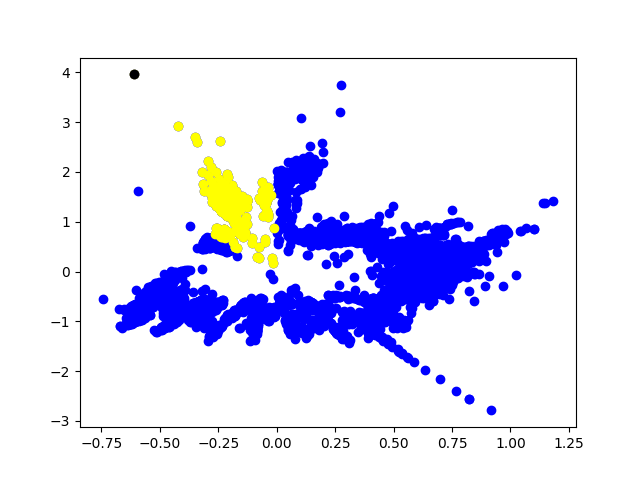
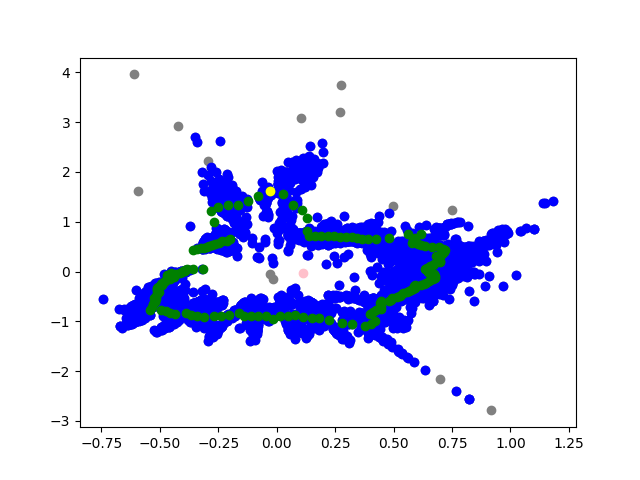
update algorithm + new maps demonstrating our idea

diff --git a/algorithm.py b/algorithm.py
@@ -4,63 +4,33 @@ import csv
 import numpy as np
 from scipy.spatial import distance
 import cmath
+import sklearn.neighbors as kdt
+import time
+
 # settings:
-angel = math.pi / 9  # the amount of degrees in each section default prob 20
-folder = "data"
+angel = 10 * (math.pi / 180)  # the amount of degrees in each section default prob 20
+folder = "data"  # temporary variables for our convenient
 suffix = "PointData"
 points_file = "{}/{}".format(folder, suffix)
 height_removal = -2.0  # only looks at points from this height and more, put this to -100.0 if u dont want limit
+radius = 0.2  # variables used to clean isolated points
+density = 2
 
-'''
-"test list:
-"pointData0",
-"pointData8",
-"pointDataDekel",
-"pointDataVered" 
-"pointData0 (1)"
-'''
 
-def points_in_section(points, degree1, degree2):
-    # returns the points in the section from degree1 to degree2
+def clean_noise(points, rad, den):
     new_points = []
-    e1 = [1.0, 0.0]
+    tree = kdt.KDTree(points, leaf_size=2)
 
-    v1_cross = rotate(e1, degree1 + 90)
-    v2_cross = rotate(e1, degree2 + 90)
+    # read more about this data structure: https://en.wikipedia.org/wiki/K-d_tree
 
-    for point in points:
-        if np.dot(v1_cross, np.array(point)) > 0 and np.dot(v2_cross, np.array(point)) < 0:
-            new_points.append(point)
+    for x in points:  # count the number of points within the given radius in O(log n) per query
+        if tree.query_radius([x], r=rad, count_only=True) > den:
+            new_points.append(x)
+
     return new_points
 
 
-def rotate(vector, degree):
-    # rotates vector by 'degree' degrees
-    rotation = np.deg2rad(degree)
-    rot = np.array([[math.cos(rotation), -math.sin(rotation)], [math.sin(rotation), math.cos(rotation)]])
-
-    v = np.array(vector)
-    new_v = np.dot(rot, v)
-    return new_v
-
-def clean_noise(points):
-
-    to_remove = []
-    list_of_mean_dist_per_point = []
-    for x in points:
-        mean_dists = np.mean([distance.euclidean(x,p) for p in points])
-        list_of_mean_dist_per_point.append(mean_dists)
-
-    cutoff = sorted(list_of_mean_dist_per_point)[len(points)-10]
-
-    for i in range(len(points)):
-        p = points[i]
-        if list_of_mean_dist_per_point[i] > cutoff:
-            to_remove.append(p)
-    points = [x for x in points if not x in to_remove]
-    return points
-
-def sort_by_index(arr, i):
+def sort_by_index(arr, i):  # quick sort of a list by the i_th index
     less = []
     equal = []
     greater = []
@@ -73,124 +43,102 @@ def sort_by_index(arr, i):
                 equal.append(x)
             elif x[i] > pivot:
                 greater.append(x)
-        return sort_by_index(less,i)+equal+sort_by_index(greater,i)
+        return sort_by_index(less, i) + equal + sort_by_index(greater, i)
     else:
         return arr
 
 
-def get_exit_point(points):
-    
+def to_polar(points):  # convert cartesian coordinates to polar
     polar_points = []
-    approx_poligon_polar = []
+
+    for x in points:
+        rho, phi = cmath.polar(complex(x[0], x[1]))
+        polar_points.append([phi + math.pi, rho])
+
+    return polar_points
+
+
+def get_exit_point(points):
+    polar_points = to_polar(points)
+
+    polar_points = sort_by_index(polar_points, 0)  # sort the points by the angular coordinate
+
+    approx_polygon_polar = []
+    approx_polygon = []
+    for section in np.arange(0, 2 * math.pi, math.pi / 90):  # finding approximate room edge in the given section
+        distances = [x[1] for x in polar_points if section < x[0] < section + angel]
+        if len(distances) == 0:
+            continue
+        approx_polygon_polar.append([section + angel / 2 - math.pi, np.mean(distances)])
 
     x_arr = []
     y_arr = []
-
-    for x in points:
-        rho, phi = cmath.polar(complex(x[0],x[1]))
-        polar_points.append([phi + math.pi,rho])
-     
-    polar_points = sort_by_index(polar_points, 0)
-
-    for section in np.arange(0, 2* math.pi, math.pi / 90):
-        distances = [x[1] for x in polar_points if x[0] > section and x[0] < section + angel]
-        if len(distance) == 0:
-            continue
-        approx_poligon_polar.append([section + angel / 2 - math.pi, np.mean(distances)])
-
-    for p in approx_poligon_polar:
-        tmp = [p[1] * np.cos(approx_poligon_polar[0]), p[1] * np.sin(approx_poligon_polar[0])]
-        approx_poligon_polar.append(tmp)
+    for p in approx_polygon_polar:  # convert the points creating the approximate room to cartesian coordinates
+        tmp = [p[1] * np.cos(p[0]), p[1] * np.sin(p[0])]
+        approx_polygon.append(tmp)
         x_arr.append(tmp[0])
         y_arr.append(tmp[1])
-    
-    plt.scatter(x_arr, y_arr, color="green")
+
+    plt.scatter(x_arr, y_arr, color="green")  # paint those points in green
+
+    center = [np.mean(x_arr), np.mean(y_arr)]  # calculate the approximate room center and paint it in pink
+    plt.scatter([center[0]], [center[1]], color="pink")
+
+    exit_distance = -1  # determine the exit point to be the farthest from the approximate room center
+    exit_point = []
+    for point in approx_polygon:
+        tmp = distance.euclidean(point, center)
+        if exit_distance < tmp:
+            exit_distance = tmp
+            exit_point = point
+    return exit_point
 
 
 def main():
-    max_value = 0.0
     points = []
     points3d = []
 
-    x = []
-    y = []
-    with open(points_file + ".csv", newline='') as f:
+    with open(points_file + ".csv", newline='') as f:  # read the points from the file edited by ORB_SLAM2
         reader = csv.reader(f)
         data = list(reader)
     for i in data:
-        points.append([float(i[0]),float(i[2])])  # reads the points, z value= float(i[1])
-        points3d.append([float(i[0]),float(i[2]),float(i[1])])
+        points.append([float(i[0]), float(i[2])])
+        points3d.append([float(i[0]), float(i[2]), float(i[1])])
 
-    print(points3d)
-    for point in points3d:  # deletes points for height_removal height (point below cause they have more noise)
+    # print(points3d) # optional printing of the points received- for debug
+
+    for point in points3d:  # remove unnecessary features on the floor- optional by modify the height_removal variable
         if point[2] <= height_removal:
             points.remove([point[0], point[1]])
 
-    points = [list(x) for x in set(tuple(x) for x in points)]
+    points = [list(x) for x in set(tuple(x) for x in points)]  # delete duplications
 
-    # points = clean_noise(points)
+    x = []
+    y = []
+    for point in points:  # paint all the points in grey- points to be removed will not be painted in blue
+        x.append(float(point[0]))
+        y.append(float(point[1]))
+    plt.scatter(x, y, color="grey")
 
-    # TODO: maybe add clusters and noise cleaning
+    clean_time = time.time()
 
-    # TODO: maybe only take points from some height
-
-    # for section in range(0, 360, 2):  # checks each section
-    #     sub_points = points_in_section(points, section, section + angel)  # all the points in the section
-    #     if len(sub_points) == 0:
-    #         continue
-    #     per_point_distance = []
-    #     for point in sub_points:
-    #         per_point_distance.append(math.sqrt(point[0] ** 2 + point[1]**2))
-
-    #     # TODO: add finding longest path of dots
-
-    #     max = 0
-    #     second_score = 0
-
-    #     max_index = 0
-    #     for i in range(len(per_point_distance)):
-    #         if per_point_distance[i] > max:
-    #             max = per_point_distance[i]
-    #             max_index = i
-    #     value = max  # - np.amin(distance)
-
-    #     # if value > max_value:
-    #     #     max_value = value
-    #     #     out_of_room = sub_points[max_index]
-    #     #     max_section = section
-
-    #     value = 0
-    #     mean_dist = np.mean(per_point_distance)
-    #     mean_std = np.mean(per_point_distance)
-    #     std_cuttoffs = [mean_dist - mean_std * 2.5, mean_dist + mean_std * 2.5]
-    #     centered_distances = [x for x in per_point_distance if x > std_cuttoffs[0] and x < std_cuttoffs[1]]
-    #     interval_h = np.max(centered_distances) - np.min(centered_distances)
-    #     interval_den_in = interval_h / len(centered_distances)
-    #     segment_score = interval_h ** 2 + interval_den_in
-    #     if segment_score > max_value:
-    #         max_value = segment_score
-    #         out_of_room = sub_points[max_index]
-    #         max_section = section
-
+    points = clean_noise(points, radius, density)  # clean the isolated points and paint the rest in blue
+    x = []
+    y = []
     for point in points:
         x.append(float(point[0]))
         y.append(float(point[1]))
-
     plt.scatter(x, y, color="blue")
-    # x1 = []
-    # y1 = []
-    # for i in points_in_section(points, max_section, max_section + angel):
-    #     x1.append(i[0])
-    #     y1.append(i[1])
-    # plt.scatter(x1, y1, color="yellow")
 
-    # plt.scatter([out_of_room[0]], [out_of_room[1]], color="black")
+    exit_time = time.time()
+    exit_point = get_exit_point(points)  # find the exit point and paint it in yellow
+    plt.scatter(exit_point[0], exit_point[1], color="yellow")
 
-    get_exit_point(points)
+    print("Time to clean noise: {}".format(exit_time - clean_time))
+    print("Time to calculate exit point: {}".format(time.time() - clean_time))
 
-    plt.savefig(f"data/map/{suffix}.png")  # prints the map, REMOVE WHEN IN DRONE
-
-    # TODO: add a way to return the point but to the drone
+    # plt.show()  # show the features` map
+    plt.savefig(f"data/map/{suffix}.png")  # save the map for later analysis
 
 
 main()
